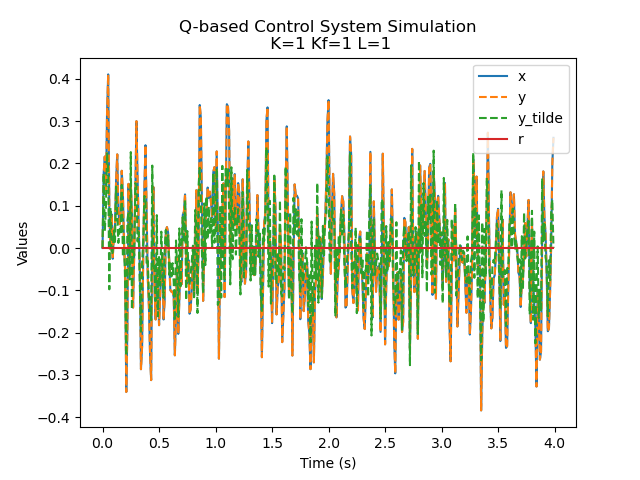
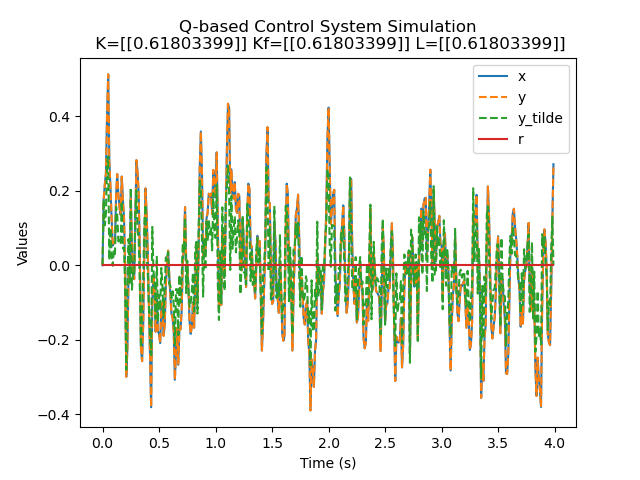
Organized class structure

diff --git a/control_sys.py b/control_sys.py
@@ -5,104 +5,179 @@ import scipy as sp
 import matplotlib.pyplot as plt
 import control as ct
 
-###Archiecture choice
-arch = 'x_based'
-#arch = 'q_based'
+save_figs = True
[1 lines of base64/hex data omitted]
 
-###Simulation properties
-dt = 0.01
-T = 4 #seconds
 
-timeseires=np.arange(0,T,dt)  
-time_length = len(timeseires)
+class ControlSystem:
+    def __init__(self, input_A, input_B, input_C, ref_type='sin'):
+       #NOTE: input arguments can describe certain features of the system matrices,
+       #but currently are used to directly as the matrices A, B, C, Q and R
+        self.A = input_A
+        self.B = input_B
+        self.C = input_C
 
-###System signals initialization
-y_tilde = np.zeros((time_length,1))
-print('y_tilde shape:', y_tilde.shape)
-x_hat = np.zeros((time_length,1))
-q_hat = np.zeros((time_length,1))
-u = np.zeros((time_length,1))
-y = np.zeros((time_length,1))
-x = np.zeros((time_length,1))
-w = np.random.normal(0, 0.1, (time_length,1)) # process noise
+        ###Simulation parameters
+        self.dt = 0.01
+        self.T = 4 #seconds
 
-r= np.zeros((time_length,1))
-# r = np.sin(timeseires)
-delta_r = np.zeros_like(r)
-for i in range(1, len(r)):
-    delta_r[i] = r[i] - r[i-1]
-print(delta_r)
+        self.timeseires=np.arange(0,self.T,self.dt)  
+        self.time_length = len(self.timeseires)
 
-###System properties
+        ###System parameters
+        self.y_tilde = np.zeros((self.time_length,1))
+        self.x_hat = np.zeros((self.time_length,1))
+        self.u = np.zeros((self.time_length,1))
+        self.y = np.zeros((self.time_length,1))
+        self.x = np.zeros((self.time_length,1))
+
+        np.random.seed(0) 
+        self.w = np.random.normal(0, 0.1, (self.time_length,1)) # process noise
+
+
+        self.q_hat = np.zeros((self.time_length,1))
+        self.q = np.zeros((self.time_length,1))
+
+        self.ref_type = ref_type
+        if self.ref_type == 'sin':
+            self.r = np.sin(self.timeseires)
+        elif self.ref_type == 'null':
+            self.r = np.zeros((self.time_length,1))
+
+
+        self.delta_r = np.zeros_like(self.r)
+        for i in range(1, len(self.r)):
+            self.delta_r[i] = self.r[i] - self.r[i-1]
+        print('delta_r shape:', self.delta_r.shape)
+
+
+        #Calculate control and sensor gains
+        #TODO: Calculated gains give worse result than 1?
+        self.Q=np.eye(np.shape(self.x[0])[0])  #TODO: Check dimensions
+        self.R=np.eye(np.shape(self.u[0])[0])
+
+        # Calculate the LQR gain
+        K, S, E = ct.dlqr(self.A, self.B, self.Q, self.R)
+
+        # Calculate the Kalman gain
+        G=np.eye(np.shape(self.w[0])[0])
+        QN = np.eye(np.shape(self.x[0])[0])
+        RN = np.eye(np.shape(self.y[0])[0])
+
+        # QN=1
+        # RN=1
+
+        L, P, E = ct.dlqe(self.A, G, self.C, QN, RN)
+
+        # #NOTE: Overwrite the gains with 1 for testing
+        # K=1
+        # L=1
+
+        #Different variable names for identical gains in different locations for clarity in knockouts and noise injections
+        self.K1=K
+        self.K2 =K
+        self.K3=K
+        self.K4=K
+        self.Kf=K
+
+        self.L1=L
+
+class PlotMixin:
+    def plot_all(self, arch):
+        plt.title(self.arch_title + ' Control System Simulation\n K=' + str(self.K1) + ' Kf=' + str(self.Kf) + ' L=' + str(self.L1))
+        plt.xlabel('Time (s)')
+        plt.ylabel('Values')
+        plt.plot(self.timeseires, self.x, label='x')
+        plt.plot(self.timeseires, self.y, label='y', linestyle='--')
+        plt.plot(self.timeseires, self.y_tilde, label='y_tilde', linestyle='--')
+        if hasattr(self, 'x_hat'):
+            plt.plot(self.timeseires, self.x_hat, label='x_hat')
+        if hasattr(self, 'q_hat'):
+            plt.plot(self.timeseires, self.q_hat, label='q_hat')
+        if hasattr(self, 'q'):
+            plt.plot(self.timeseires, self.q, label='q')
+
+        plt.plot(self.timeseires, self.u, label='u')
+        plt.plot(self.timeseires, self.r, label='r')
+        plt.plot(self.timeseires, self.w, label='w')
+
+        plt.legend()
+
+        if save_figs:
+            filename = f"{save_figs_dir}{arch}_plot_all_{self.ref_type}.png"
+            plt.savefig(filename)
+            print(f"Figure saved to {filename}")
+
+        plt.show()
+
+    def plot_compare_performance(self, arch):
+        plt.title(self.arch_title + ' Control System Simulation\n K=' + str(self.K1) + ' Kf=' + str(self.Kf) + ' L=' + str(self.L1))
+        plt.xlabel('Time (s)')
+        plt.ylabel('Values')
+        plt.plot(self.timeseires, self.x, label='x')
+        plt.plot(self.timeseires, self.y, label='y', linestyle='--')
+        plt.plot(self.timeseires, self.y_tilde, label='y_tilde', linestyle='--')
+        plt.plot(self.timeseires, self.r, label='r')
+
+        plt.legend()
+
+        if save_figs:
+            filename = f"{save_figs_dir}{arch}_compare_performance_{self.ref_type}.png"
+            plt.savefig(filename)
+            print(f"Figure saved to {filename}")
+
+        plt.show()
+
+
+class AbsoluteEstController(ControlSystem, PlotMixin):
+    def simulate(self):
+        self.arch_title = 'X-based'
+        for t in range(0,self.time_length-1):
+            #Brain Implementation
+            self.y_tilde[t]=self.y[t]-self.C*self.x_hat[t]
+            self.x_hat[t+1] = (self.L1*self.y_tilde[t])+(self.A-self.B*self.K1)*self.x_hat[t]+(self.B*self.Kf)*self.r[t]
+            self.u[t+1]=(-self.K2*self.x_hat[t+1])+(self.Kf*self.r[t+1])
+
+            #World
+            self.x[t+1]=self.A*self.x[t]+self.B*self.u[t]+self.w[t]
+            self.y[t+1]=self.C*self.x[t+1]
+
+            pass
+
+class RelativeEstController(ControlSystem, PlotMixin):
+    def simulate(self):
+        self.arch_title = 'Q-based'
+        for t in range(0,self.time_length-1):
+            #Brain Implementation
+            self.y_tilde[t]=(self.y[t])-(self.C*self.q_hat[t])-(self.C*self.r[t]) 
+            self.q_hat[t+1] = (self.L1*self.y_tilde[t])+((self.A-self.B*self.K1)*self.q_hat[t])+((self.A-self.B*self.K3+self.B*self.Kf)*self.r[t])-(self.r[t+1]) 
+            self.u[t+1]=(-self.K2*self.q_hat[t+1])+((self.Kf-self.K4)*self.r[t+1])
+
+            #World 
+            self.x[t+1]=self.A*self.x[t]+self.B*self.u[t]+self.w[t]
+            self.y[t+1]=C*self.x[t+1]
+
+            self.q[t]=self.x[t]-self.r[t]
+        pass
+
+
+
+
+#Simulation parameters
+ref_type = 'null' #'sin' or 'null'
+
 A = np.array([1])
 B = np.array([1])
 C = np.array([1])
 
-#Calculate control and sensor gains
-#TODO: Calculated gains give worse result than 1?
-Q=np.eye(np.shape(x[0])[0])  #TODO: Check dimensions
-R=np.eye(np.shape(u[0])[0])
 
-# Calculate the LQR gain
-K, S, E = ct.dlqr(A, B, Q, R)
-
-# Calculate the Kalman gain
-G=np.eye(np.shape(w[0])[0])
-QN = np.eye(np.shape(x[0])[0])
-RN = np.eye(np.shape(y[0])[0])
-
-QN=1
-RN=1
-
-L, P, E = ct.dlqe(A, G, C, QN, RN)
-
-Kf=K
-
-# K=1
-# L=1
-# Kf=1
-
-
-###Simulations with architecture block implementation
+#Run simulation
+arch= 'q_based' # or 'q_based'
 if arch == 'x_based':
-    #x-based architecture
-    for t in range(0,int(T/dt)-1):
-        #Brain Implementation
-        y_tilde[t]=y[t]-C*x_hat[t]
-        x_hat[t+1] = (L*y_tilde[t])+(A-B*K)*x_hat[t]+(B*Kf)*r[t]
-        u[t]=(-K*x_hat[t+1])+(Kf*r[t+1])
+    system = AbsoluteEstController(A, B, C, ref_type)
+elif arch == 'q_based':
+    system = RelativeEstController(A, B, C, ref_type)
 
-        #World
-        x[t+1]=A*x[t]+B*u[t]+w[t]
-        y[t+1]=C*x[t+1]
-if arch == 'q_based':
-    #q-based architecture
-    for t in range(0,int(T/dt)-1):
-        #Brain Implementation
-       
-        y_tilde[t]=y[t]-C*q_hat[t]-C*r[t] 
-        q_hat[t+1] = (L*y_tilde[t])+(A-B*K)*q_hat[t]+(A-B*K+B*Kf)*r[t]-delta_r[t+1]
-        u[t]=(-K2*q_hat[t+1])+((Kf-K)*r[t+1])
-
-        #World 
-        x[t+1]=A*x[t]+B*u[t]+w[t]
-        y[t+1]=C*x[t+1]
-
-#Plotting simulation results
-plt.figure(figsize=(10, 6))
-plt.title('Control System Simulation \n K=' + str(K) + ' Kf=' + str(Kf) + ' L=' + str(L))
-plt.xlabel('Time (s)')
-plt.ylabel('Values')
-
-plt.plot(timeseires, x, label='x')
-plt.plot(timeseires, y_tilde, label='y_tilde', linestyle='--')
-if arch == 'x_based':
-    plt.plot(timeseires, x_hat, label='x_hat')
-if arch == 'q_based':
-    plt.plot(timeseires, q_hat, label='q_hat')
-plt.plot(timeseires, u, label='u')
-plt.plot(timeseires, r, label='r')
-plt.plot(timeseires, w, label='w')
-
-plt.legend()
-plt.show()
+system.simulate()
+system.plot_all(arch)
+system.plot_compare_performance(arch)
